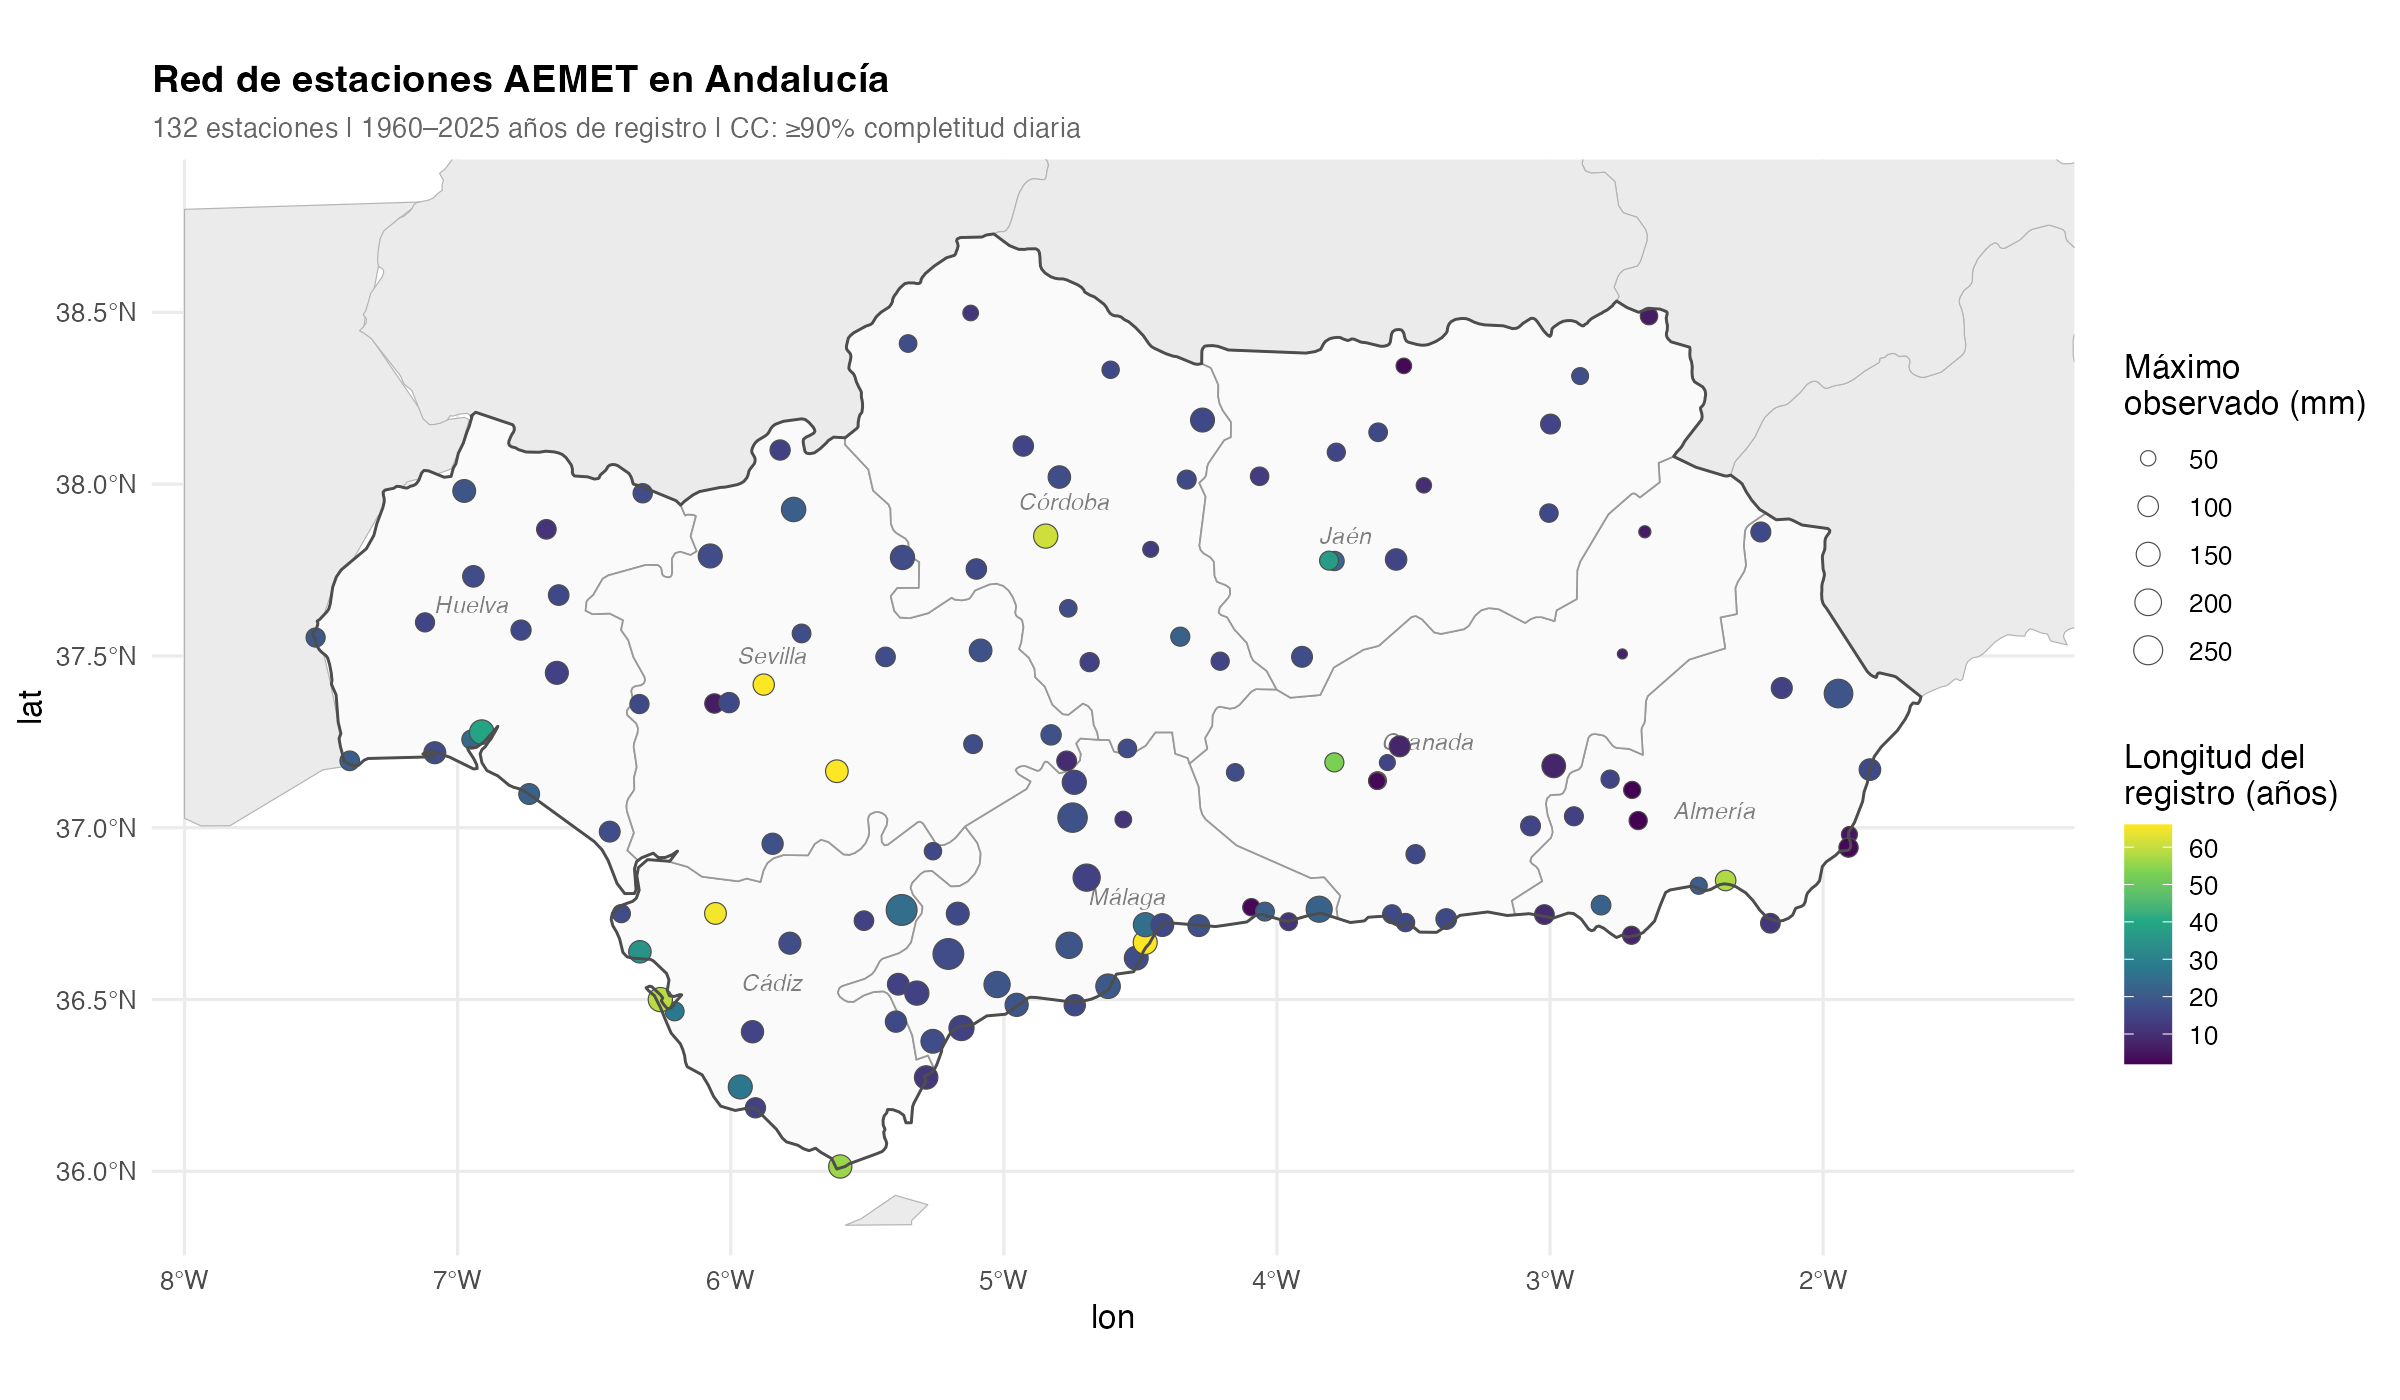
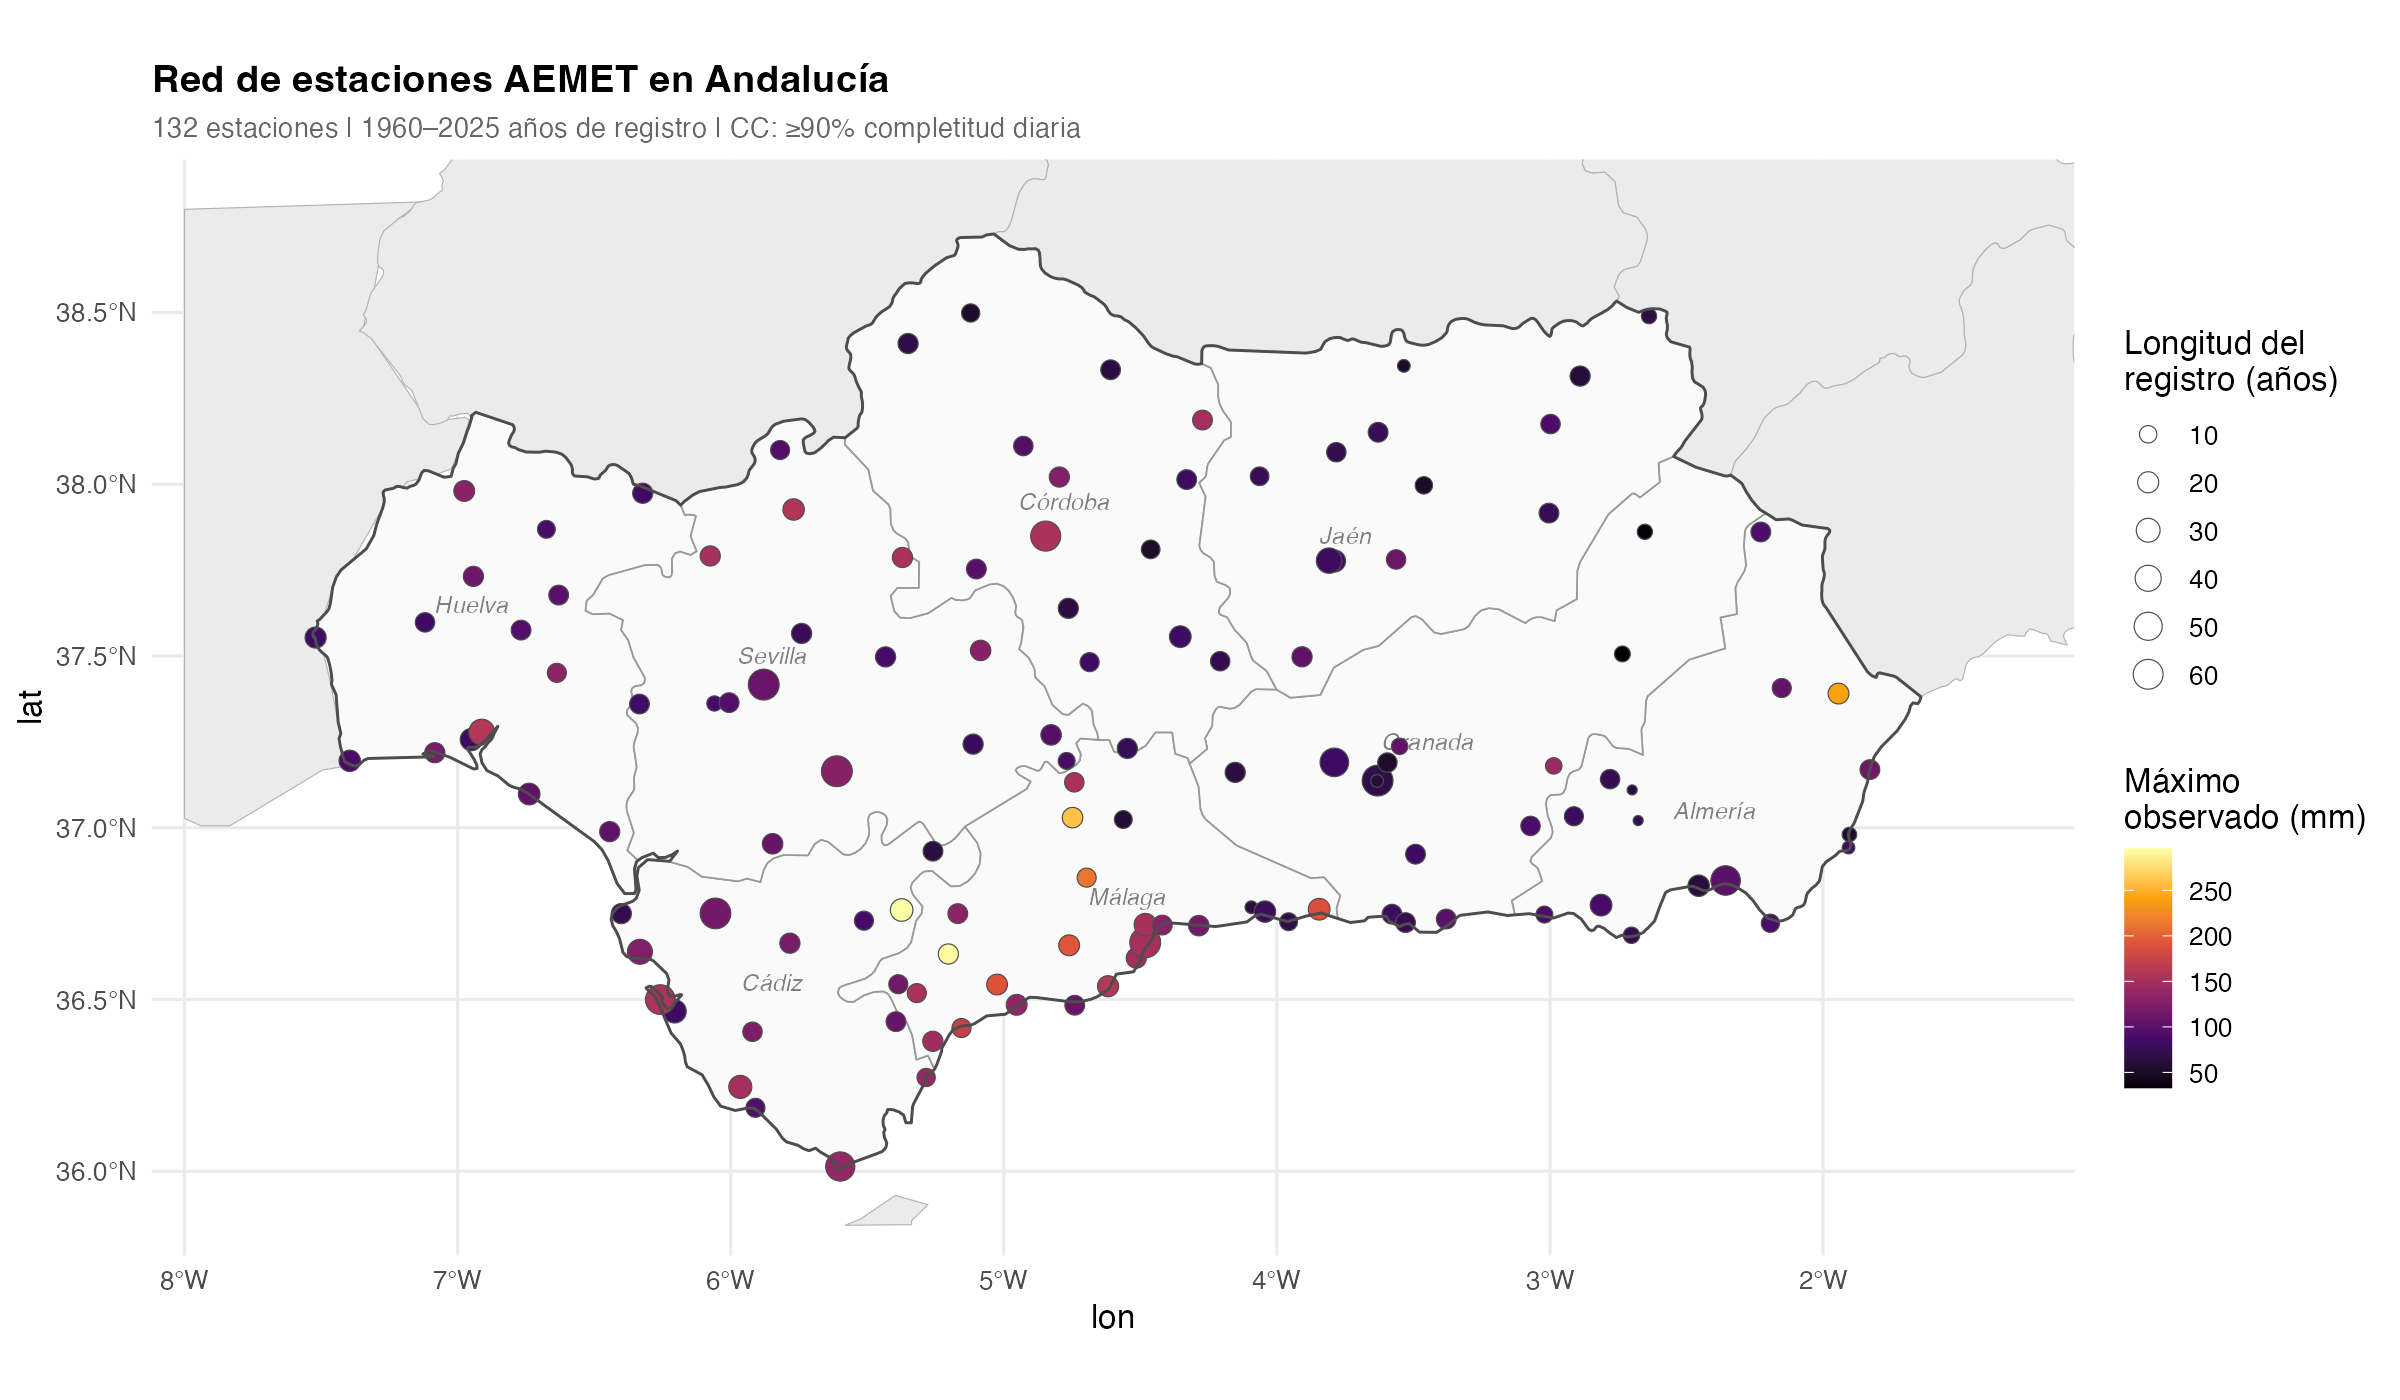
Swap station map aesthetics and add Introduction section
Station map: colour now shows observed maximum (mm), size shows
record length (years). Add Introduction to both READMEs describing
the goal of the project.

diff --git a/README.es.md b/README.es.md
@@ -4,6 +4,12 @@
 
 Análisis bayesiano espacial de valores extremos de precipitación diaria en Andalucía, España, utilizando el marco de dos etapas **Max-and-Smooth** con suavizado espacial mediante procesos gaussianos con covarianza Matérn(5/2) y priors de complejidad penalizada (PC).
 
+## Introducción
+
+La precipitación diaria extrema es un dato clave para la evaluación del riesgo de inundaciones, el diseño de infraestructuras y la planificación de recursos hídricos. Estimar la rareza de un evento de lluvia determinado — y cómo esa rareza varía en el espacio — requiere ajustar modelos estadísticos a los datos observados. Cuando los registros de estaciones individuales son cortos o escasos, las estimaciones estación por estación pueden ser ruidosas y espacialmente inconsistentes.
+
+El objetivo de este proyecto es proporcionar estimaciones espacialmente continuas de **niveles de retorno** (la cantidad de precipitación que se espera superar en promedio una vez cada *T* años) y **probabilidades de excedencia** (la probabilidad de superar un umbral crítico dentro de un horizonte de planificación) en toda Andalucía, como apoyo a la evaluación del riesgo de inundaciones y la planificación hidrológica en la región. Utilizando registros de precipitación diaria de 127 estaciones de AEMET, el marco de dos etapas **Max-and-Smooth** (Hrafnkelsson et al., 2021) ajusta una distribución GEV en cada estación de forma independiente y luego comparte información entre estaciones a través de un prior de proceso gaussiano Matérn, produciendo mapas espacialmente coherentes con cuantificación completa de la incertidumbre.
+
 ## Datos
 
 - **Fuente**: API OpenData de AEMET (Agencia Estatal de Meteorología)

diff --git a/README.md b/README.md
@@ -4,6 +4,12 @@
 
 Bayesian spatial extreme value analysis of daily precipitation across Andalucía, Spain, using the **Max-and-Smooth** two-stage framework with Matérn(5/2) Gaussian process spatial smoothing and penalised complexity (PC) priors.
 
+## Introduction
+
+Extreme daily precipitation is a key input for flood risk assessment, infrastructure design, and water resource planning. Estimating how rare a given rainfall event is — and how that rarity varies across space — requires fitting statistical models to observed data. When individual station records are short or sparse, site-by-site estimates can be noisy and spatially inconsistent.
+
+The goal of this project is to provide spatially continuous estimates of **return levels** (the rainfall amount expected to be exceeded on average once every *T* years) and **exceedance probabilities** (the chance of exceeding a critical threshold within a planning horizon) across Andalucía, to support flood risk assessment and hydrological planning in the region. Using daily precipitation records from 127 AEMET stations, the two-stage **Max-and-Smooth** framework (Hrafnkelsson et al., 2021) fits a GEV distribution at each station independently, then borrows strength across stations through a Matérn Gaussian process prior, producing spatially coherent maps with full uncertainty quantification.
+
 ## Data
 
 - **Source**: AEMET (Agencia Estatal de Meteorología) OpenData API
